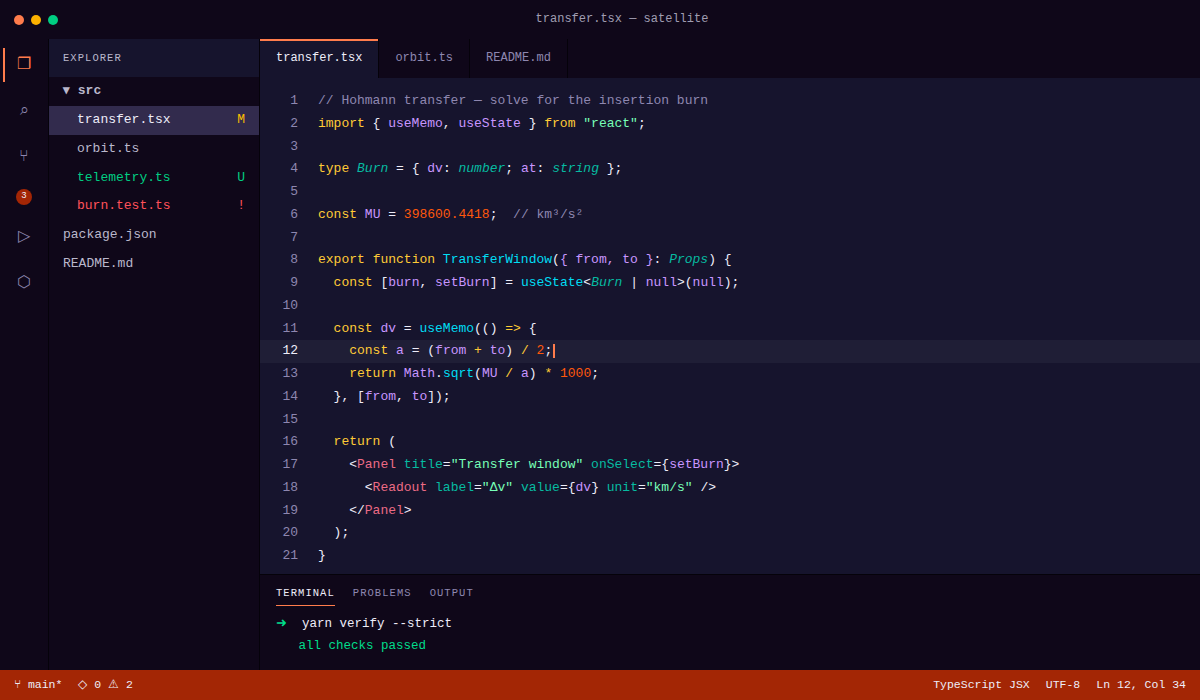
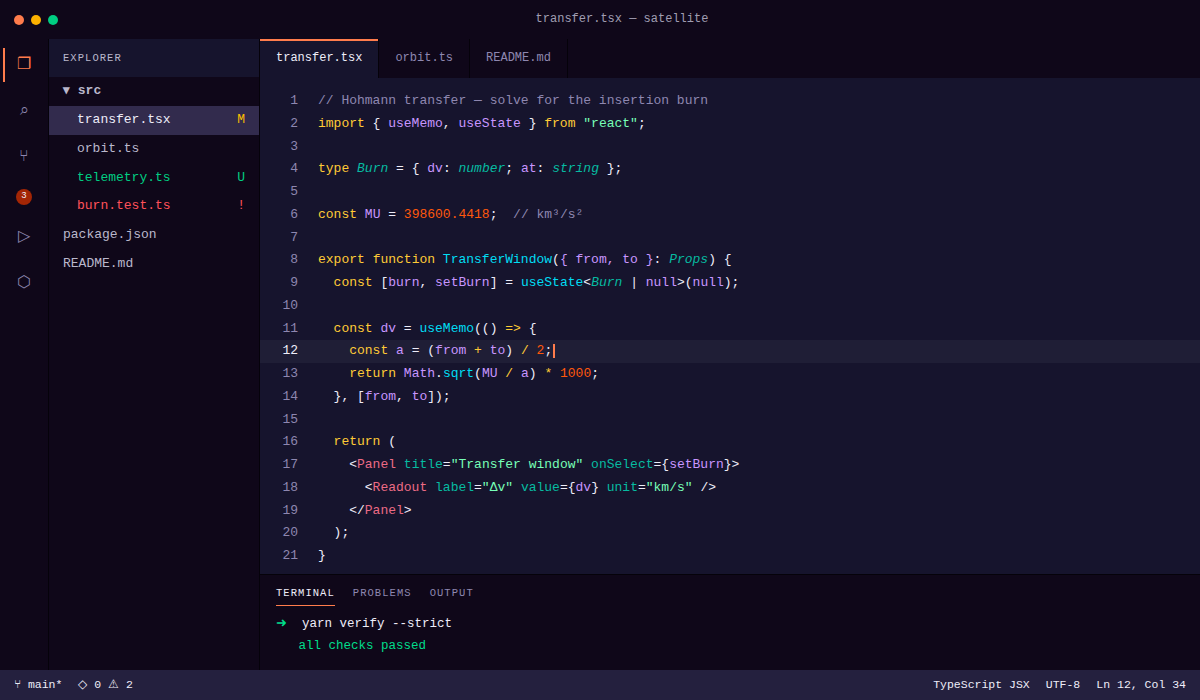
Nebula: purple JSON keys, and a status bar that is quiet at rest
Both from review, and both were real.

JSON keys were teal because they fell through to the broad `support`
selector, which paints every built-in with the type colour. A JSON
document is then teal keys against mint string values — two neighbours on
the same side of the wheel, separated by deltaE 23, in a file that is
nothing but keys and values. They now take `role.variable`, which
separates by 43.

That is a consistency fix as much as a colour change: a JSON key is an
object property, and object properties already use `role.variable`, so
the same concept was one colour in a .ts file and another in a .json
file. The rule is scoped to `source.json` rather than to the
property-name scope, because CSS and SCSS property names share that scope
and are genuinely built-ins — both verified unchanged. The descendant
selector also covers .jsonc and .json5.

The status bar was the accent used as a large fill, so the loudest colour
in the theme was lit along the bottom of the window all day, which reads
as an alarm that never clears. It now rests on the raised violet surface.
Nothing that signals changed: debugging, errors, warnings and offline all
have their own colour keys, and the bar still turns orange the moment a
debug session starts.

This one needed a token rather than an edit to ui.yml, which is shared by
all five themes and would have taken the teal status bar away from the
other four. `chrome.statusBar` is that token; the other four palettes set
[…]

Changed region(s): [[0.0, 0.96, 1.0, 1.0]]

diff --git a/README.md b/README.md
@@ -21,7 +21,9 @@ separated by lightness rather than hue, and the ground runs dark on purpose:
 neon is a contrast effect before it is a saturation one, so a dark ground is
 what lets the syntax roles sit at the edge of sRGB and still clear WCAG AA.
 
-Blood orange is the accent — cursor, focus ring, links, selection, status bar.
+Blood orange is the accent — cursor, focus ring, links, selection. Not the
+status bar: that rests on a violet surface and only turns orange when a debug
+session is running, so the loudest colour on screen means something is happening.
 Gold is the second highlight, on keywords and warnings. The remaining roles are
 cool, which is a constraint rather than a preference: the warm band holds three
 roles and no more, because orange and gold collapse toward the same yellow for a
